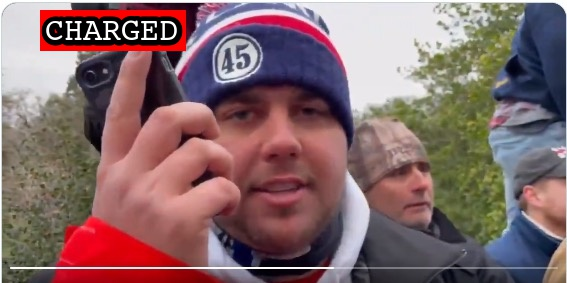
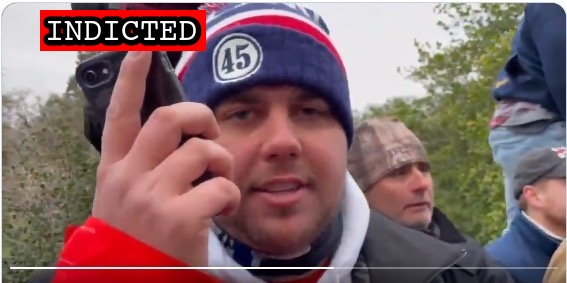
Latest import

Changed region(s): [[0.06, 0.0283, 0.3898, 0.1979]]

diff --git a/commands/suspect-import.ts b/commands/suspect-import.ts
@@ -287,6 +287,10 @@ const importDoj = async (nameSet: Set<string>) => {
       name = "OKelly, John";
     }
 
+    if (name === "BARD, Kyle Joseph") {
+      name = "Bard, Kyler";
+    }
+
     let nameChunks = name.split(",");
 
     let lastName = toLower(nameChunks[0])

diff --git a/docs/_suspects/kyler-bard.md b/docs/_suspects/kyler-bard.md
@@ -4,10 +4,10 @@ lastName: Bard
 hashtag: WhiteHorn
 aka:
 residence: Missouri
-status: Charged
+status: Indicted
 date: 2023-01-12
 charged: 2023-01-12
-indicted:
+indicted: 2023-03-15
 convicted:
 acquitted:
 sentenced:
@@ -43,5 +43,7 @@ videos:
 charges:
 sentence:
 ---
+
 - [News Report](https://www.kshb.com/news/crime/we-gotta-take-it-over-joplin-man-accused-of-shoving-officer-during-jan-6-riot-at-u-s-capitol)
 - [Statement of Facts](https://storage.courtlistener.com/recap/gov.uscourts.dcd.250978/gov.uscourts.dcd.250978.1.1_1.pdf)
+- [Indictment](https://www.justice.gov/usao-dc/case-multi-defendant/file/1581721/download)

diff --git a/docs/_suspects/jeanette-mangia.md b/docs/_suspects/jeanette-mangia.md
@@ -5,8 +5,8 @@ hashtag:
 aka:
 residence: Pennsylvania
 status: Charged
-date: 2024-04-23
-charged: 2024-04-23
+date: 2023-04-23
+charged: 2023-04-23
 indicted:
 convicted:
 acquitted:

diff --git a/docs/_suspects/christopher-spencer.md b/docs/_suspects/christopher-spencer.md
@@ -18,7 +18,7 @@ trial_date:
 trial_type:
 jury_selection:
 sentencing:
-status_conference: 2023-04-27
+status_conference:
 age: 40
 occupation:
 affiliations:

diff --git a/docs/_suspects/dominic-box.md b/docs/_suspects/dominic-box.md
@@ -18,7 +18,7 @@ trial_date:
 trial_type:
 jury_selection:
 sentencing:
-status_conference: 2023-04-27
+status_conference:
 age: 30
 occupation:
 affiliations:

diff --git a/docs/_suspects/jared-adams.md b/docs/_suspects/jared-adams.md
@@ -18,7 +18,7 @@ trial_date:
 trial_type:
 jury_selection:
 sentencing:
-status_conference: 2023-04-28
+status_conference:
 age: 26
 occupation:
 affiliations:

diff --git a/docs/_suspects/jeremy-vorous.md b/docs/_suspects/jeremy-vorous.md
@@ -18,7 +18,7 @@ trial_date:
 trial_type:
 jury_selection:
 sentencing:
-status_conference: 2023-04-27
+status_conference:
 age: 43
 occupation:
 affiliations:
